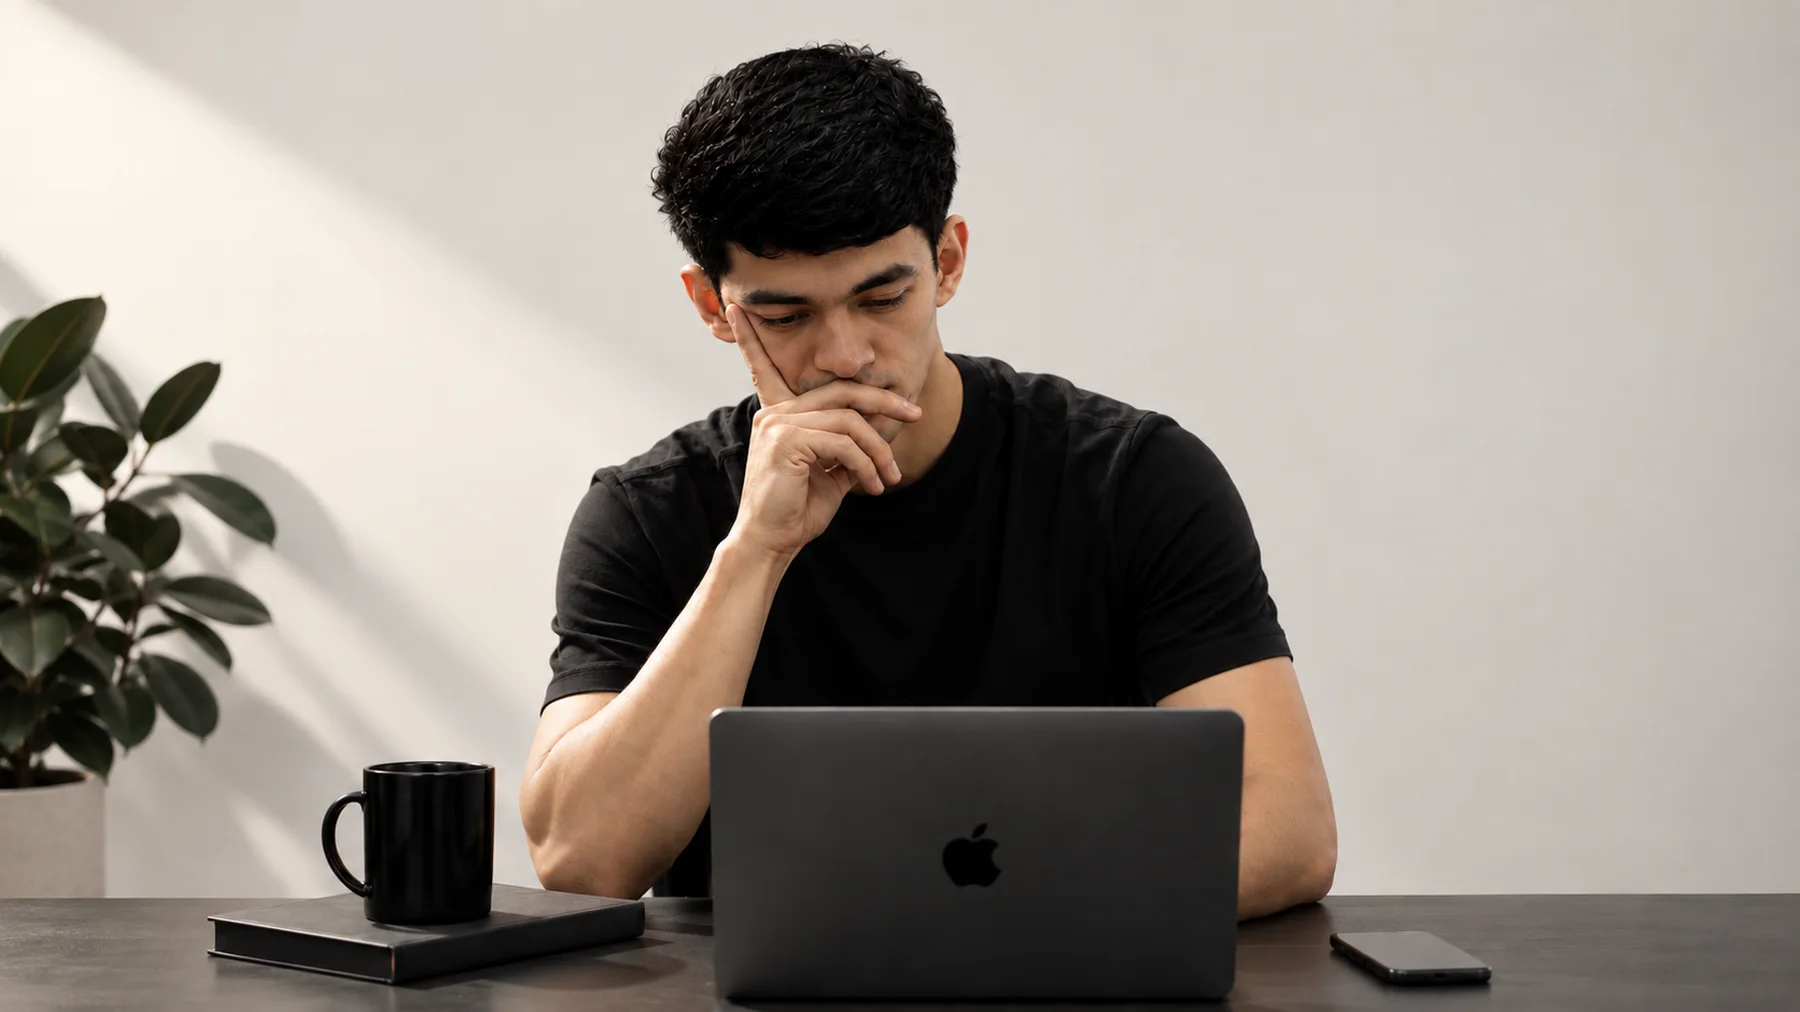
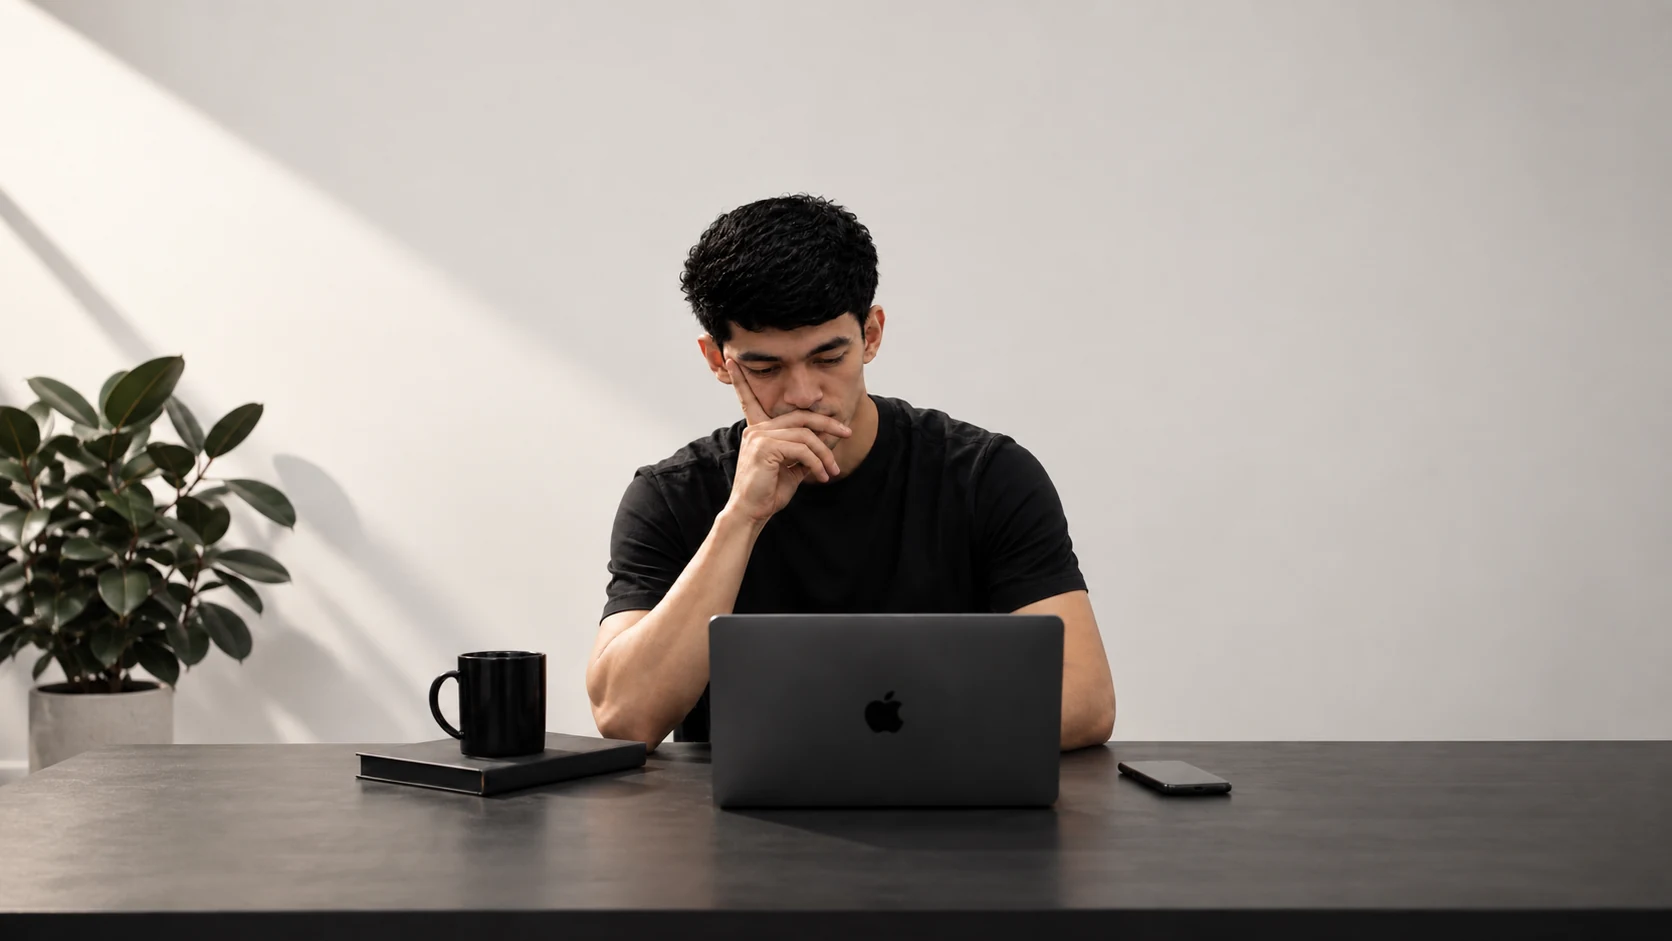
feat(hero,about): новые снимки, первый экран — фотография на весь экран
Первый экран стал самой фотографией: она заполняет весь экран, а
слова лежат на столе внизу. Большая строка слева, короткая справа,
кнопка по центру снизу. Ничего не лежит на нём самом.

Затемнение внизу подобрано по замерам, а не на глаз: слова падают
частью на стол, частью на светлую стену за ним, и белый по этой
стене давал 3,3:1 — нечитаемо. Новые точки держат каждую строку
выше 6:1 в худшей точке фона, и на телефоне тоже, а к 76% высоты
сходят на нет: лицо теряет около шестой части яркости, верх кадра
не тронут вовсе.

Фотографии заменены на новые: hero.webp и about.webp. Старые —
hero-cut, portrait-hero, portrait-square, portrait-work — удалены,
на них больше ничего не ссылается.

diff --git a/components/sections/Opening.tsx b/components/sections/Opening.tsx
@@ -3,21 +3,20 @@ import { CTA } from '@/components/ui/CTA';
 import { site } from '@/lib/content/site';
 
 /*
- * The opening: him on one side, the words on the other, nothing on top of
- * anything.
+ * The opening: the photograph fills the screen, and the words sit on the desk.
  *
- * Three earlier versions put type over the photograph — centred on his face,
- * split around his head, and set heavy across his chest. Every one of them
- * traded legibility for drama and lost: the statement is black, his shirt is
- * black, and the second line disappeared into it. A scrim strong enough to fix
- * that flattened the picture.
+ * Every earlier version fought the same battle — type over his chest, where the
+ * statement is black and his shirt is black too, so the second line vanished.
+ * This photograph solves it by having a place for words in it: the desk across
+ * the bottom is almost black and completely empty, and he is above it with
+ * nothing on him. So the type goes there in white, he stays uncovered, and the
+ * top two thirds are left as air.
  *
- * So the two are separated. He gets a full-bleed half where nothing covers him;
- * the words get a quiet half with room to breathe. Both are legible without a
- * single compromise, and the composition is calm rather than busy — which is
- * what the owner asked for after seeing the loud ones.
+ * Big line left, the short one right, the button centred underneath — the
+ * arrangement the owner asked for.
  *
- * `data-tone="light"` tells the header to go black here.
+ * `data-tone="light"` because the header sits over the top of the picture,
+ * which is a pale wall; the dark half is at the other end of the screen.
  */
 export function Opening() {
   // "Цифровые продукты, с характером" — split so the second half can take a
@@ -25,45 +24,65 @@ export function Opening() {
   const [head, tail] = site.shortStatement.split(', ');
 
   return (
-    <section
-      data-tone="light"
-      className="relative flex min-h-[100svh] w-full flex-col bg-ground lg:flex-row"
-    >
-      {/* The photograph. Below the words on a phone, beside them on a desk. */}
-      <div className="relative order-1 h-[42svh] w-full shrink-0 lg:order-2 lg:h-auto lg:w-[52%]">
-        <Image
-          src="/photo/hero.webp"
-          alt={`${site.name}, ${site.role}`}
-          fill
-          priority
-          sizes="(min-width: 1024px) 52vw, 100vw"
-          className="object-cover object-[62%_32%]"
-        />
-      </div>
+    <section data-tone="light" className="relative h-[100svh] w-full overflow-hidden bg-ground">
+      <Image
+        src="/photo/hero.webp"
+        alt={`${site.name}, ${site.role}`}
+        fill
+        priority
+        sizes="100vw"
+        /*
+         * Vertically biased past centre so that on a screen wider than the
+         * frame the crop eats the empty wall at the top and keeps the desk.
+         */
+        className="object-cover object-[50%_45%]"
+      />
 
-      {/* The words. Nothing crosses the picture, so nothing needs a scrim. */}
-      <div className="order-2 flex flex-1 flex-col justify-center px-5 py-16 md:px-10 lg:order-1 lg:py-24 lg:pr-16 lg:pl-[max(2.5rem,calc((100vw-1440px)/2+4rem))]">
-        <p className="flex items-center gap-4 text-[0.6875rem] tracking-[0.22em] text-ink-2 uppercase">
-          <span aria-hidden className="block h-px w-10 bg-ink-3" />
-          {site.role}
-        </p>
+      {/*
+       * The falloff the type sits on.
+       *
+       * Measured, not guessed. The words land partly on the desk and partly on
+       * the pale wall behind it, and white on that wall came out at 3.3:1 —
+       * unreadable. These stops hold every line above 6:1 on the worst pixel
+       * behind it, on a phone as well as a desk, while reaching zero at 76% of
+       * the height: his face loses about a sixth of its brightness and the top
+       * of the frame is untouched. What it looks like is light falling off
+       * towards the foreground, which is what the photograph already does.
+       */}
+      <div
+        aria-hidden
+        className="absolute inset-0 bg-[linear-gradient(to_top,rgba(0,0,0,0.93)_0%,rgba(0,0,0,0.84)_25%,rgba(0,0,0,0.52)_52%,rgba(0,0,0,0)_76%)]"
+      />
 
-        <h1 className="mt-10 text-[clamp(2.25rem,4.6vw,4.5rem)] leading-[0.95] tracking-[-0.04em] uppercase">
-          <span className="block font-extrabold">{head},</span>
-          {tail && <span className="block font-light">{tail}</span>}
-        </h1>
+      <div className="absolute inset-x-0 bottom-0 px-5 pb-10 md:px-10 md:pb-14">
+        <div className="mx-auto w-full max-w-[1440px]">
+          <div className="flex flex-col gap-6 md:flex-row md:items-end md:justify-between md:gap-16">
+            <div className="min-w-0">
+              {/* Full strength, not the usual 60%: this line sits highest of
+                  the four, where the falloff is weakest, and at 60% the
+                  worst-case pixel behind it fell under 3:1. */}
+              <p className="flex items-center gap-4 text-[0.6875rem] tracking-[0.22em] text-paper uppercase">
+                <span aria-hidden className="block h-px w-10 bg-paper/70" />
+                {site.role}
+              </p>
 
-        <p className="mt-10 max-w-md text-base leading-relaxed text-ink-2">{site.difference}</p>
+              <h1 className="mt-6 text-[clamp(2.125rem,5vw,4.5rem)] leading-[0.95] tracking-[-0.04em] text-paper uppercase">
+                <span className="block font-extrabold">{head},</span>
+                {tail && <span className="block font-light">{tail}</span>}
+              </h1>
+            </div>
 
-        <CTA href="/start" size="lg" className="mt-12 self-start">
-          {site.heroCta}
-        </CTA>
+            <p className="max-w-sm text-sm leading-relaxed text-paper/70 md:pb-3">
+              {site.difference}
+            </p>
+          </div>
 
-        <p className="mt-16 flex items-center gap-4 text-[0.6875rem] tracking-[0.22em] text-ink-3 uppercase">
-          {site.name}
-          <span aria-hidden className="block h-px w-10 bg-ink-3" />
-          Душанбе · UTC+5
-        </p>
+          <div className="mt-10 flex justify-center md:mt-12">
+            <CTA href="/start" tone="dark" size="lg">
+              {site.heroCta}
+            </CTA>
+          </div>
+        </div>
       </div>
     </section>
   );

diff --git a/components/sections/home.tsx b/components/sections/home.tsx
@@ -126,11 +126,13 @@ export function AboutSpread() {
       {/* Its own column, flush to the top, bottom and right of the section. */}
       <div className="relative h-80 w-full sm:h-[28rem] lg:h-auto">
         <Image
-          src="/photo/portrait-work.webp"
+          src="/photo/about.webp"
           alt={`${site.name} за работой`}
           fill
           sizes="(min-width: 1024px) 40vw, 100vw"
-          className="object-cover object-center"
+          /* Biased right and up: the frame is square, the column is tall, and
+             a plain centre crop cuts him in half down the middle. */
+          className="object-cover object-[62%_32%]"
         />
       </div>
     </section>

diff --git a/app/(site)/about/page.tsx b/app/(site)/about/page.tsx
@@ -22,12 +22,12 @@ export default function AboutPage() {
         <div className="grid gap-14 md:grid-cols-2 md:gap-20">
           <div className="relative aspect-3/2 w-full overflow-hidden bg-ground md:aspect-4/5">
             <Image
-              src="/photo/portrait-work.webp"
+              src="/photo/about.webp"
               alt={`${site.name} за работой`}
               fill
               priority
               sizes="(min-width: 768px) 46vw, 92vw"
-              className="object-cover"
+              className="object-cover object-[55%_35%]"
             />
           </div>
 
